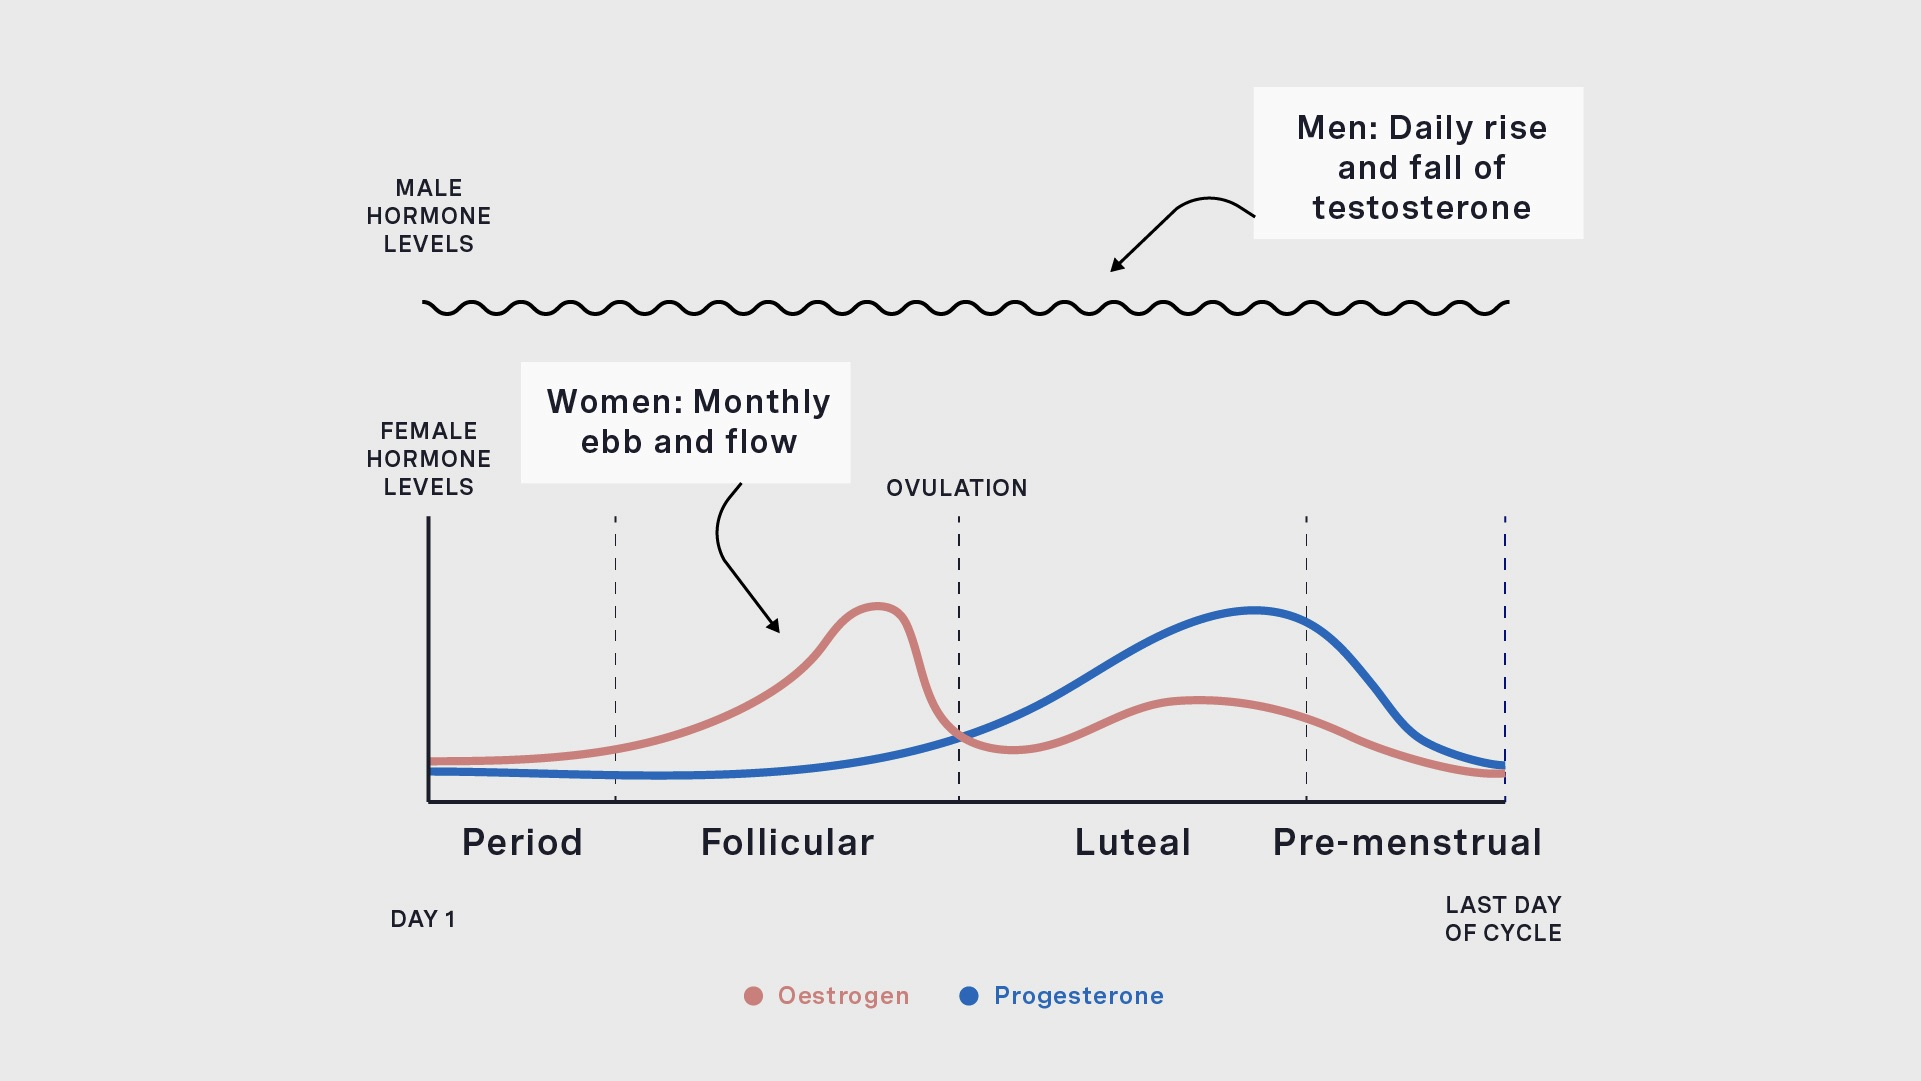
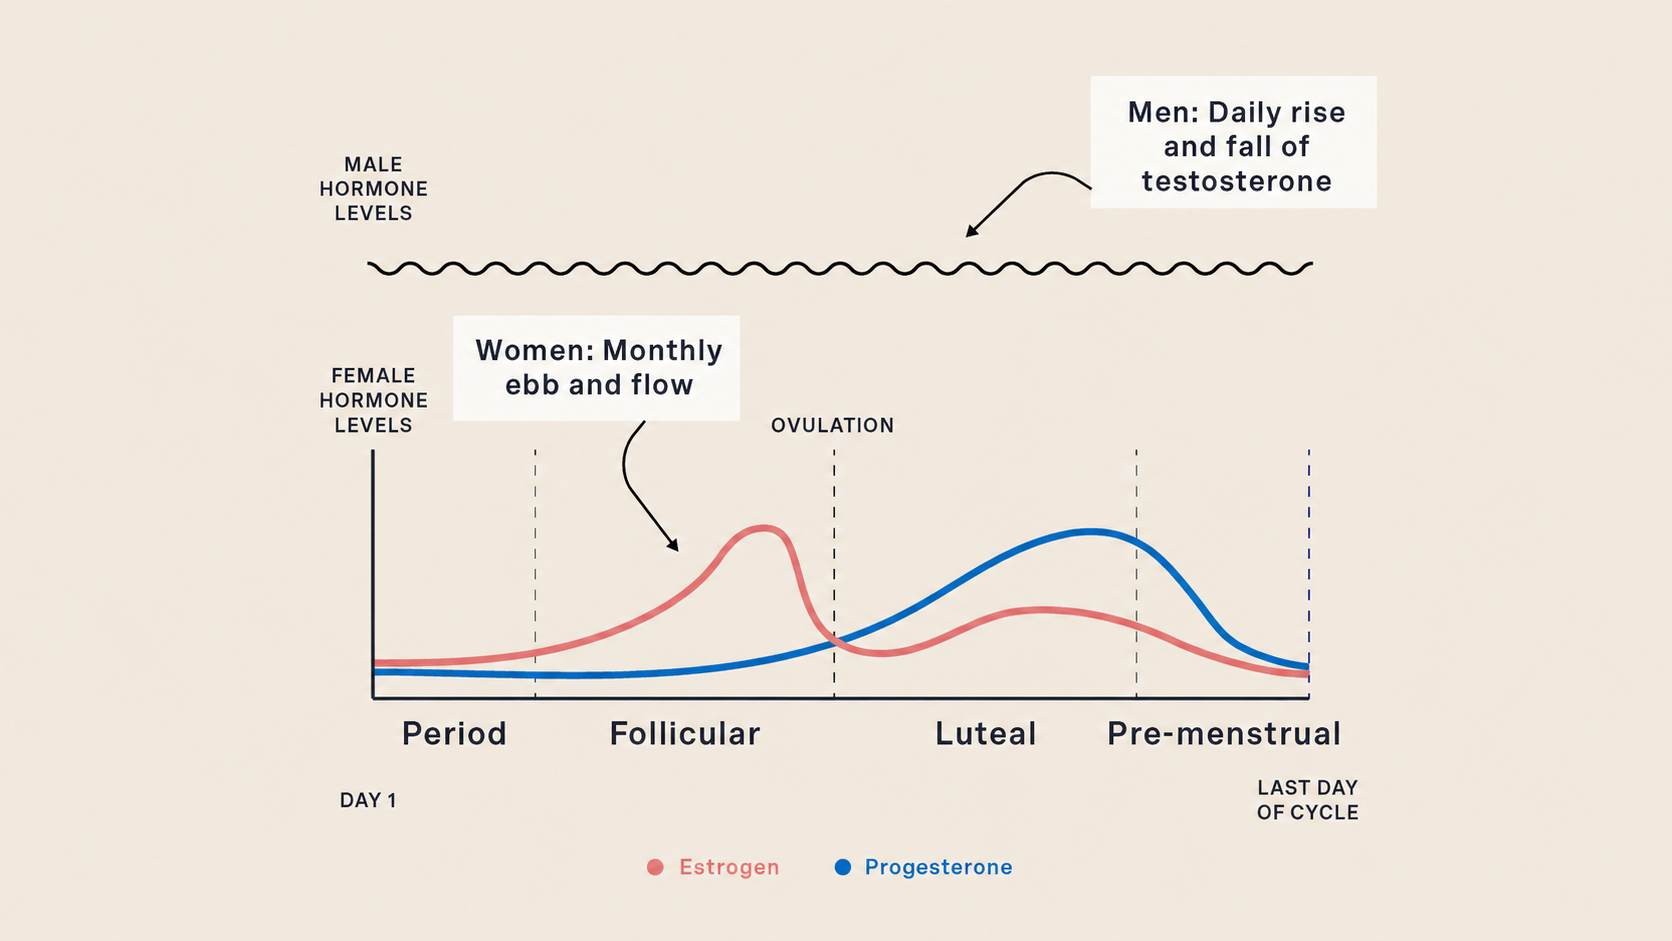
update team and photos

diff --git a/frontend/src/components/Team.jsx b/frontend/src/components/Team.jsx
@@ -2,7 +2,7 @@ export default function Team() {
   const team = [
     {
       name: "Burbayeva Kamila",
-      role: "Doctor of Medicine, BC Endocrinologist, Kazakhstan Association of Endocrinologists",
+      role: "Doctor of Medicine, BC Endocrinologist, KZ Association of Endocrinologists",
       photo: "/team-kamila.jpg",
     },
     {
